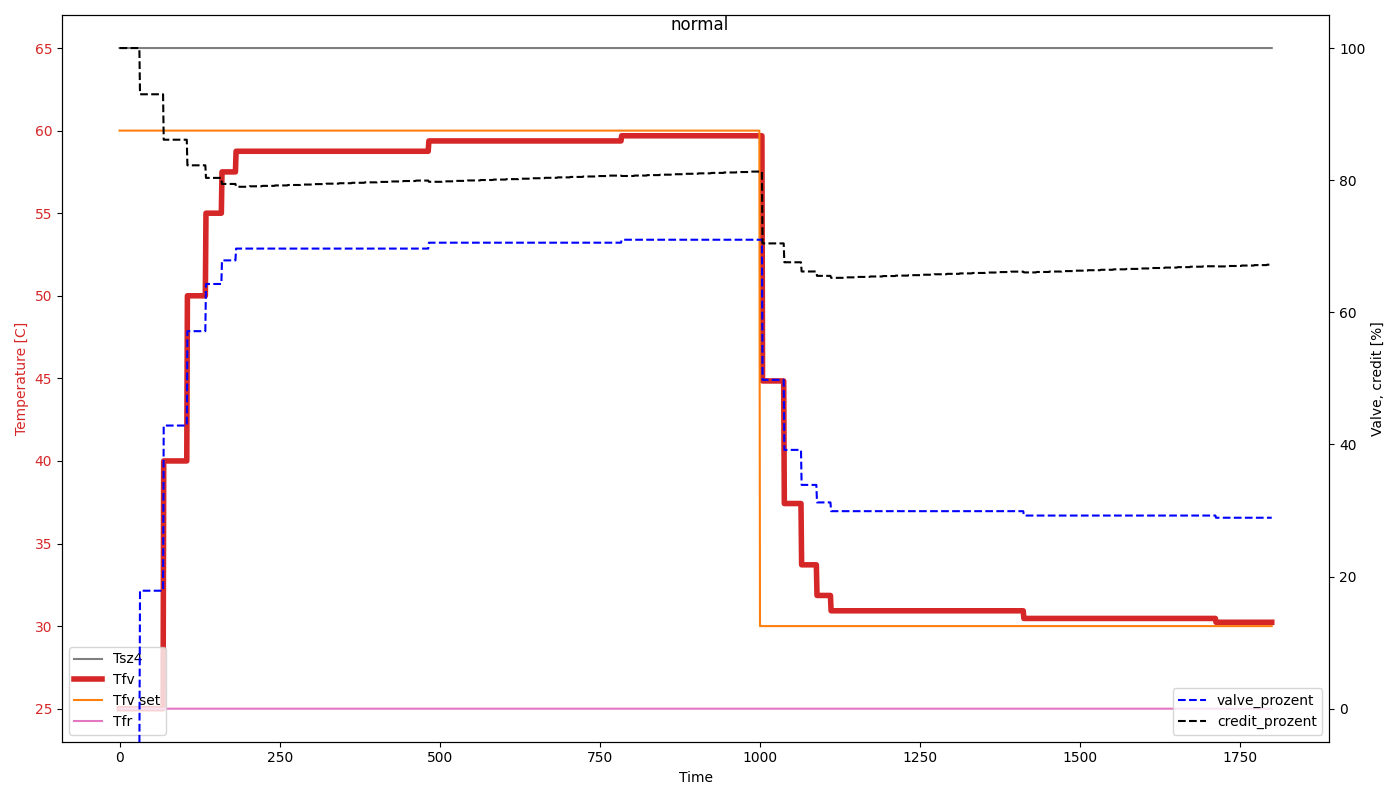
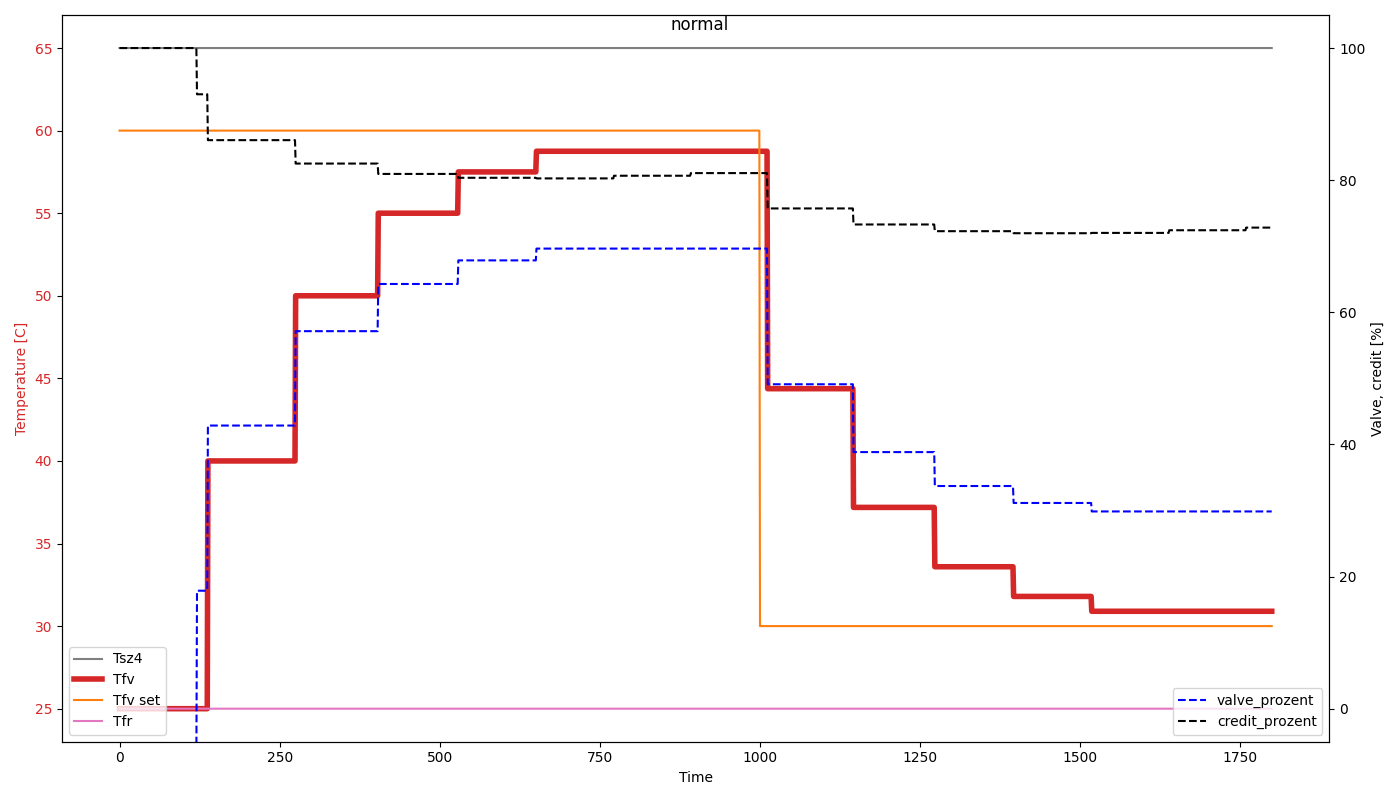
Rework ladung_prozent()

diff --git a/software/software-zentral/zentral/util_sp_ladung_zentral.py b/software/software-zentral/zentral/util_sp_ladung_zentral.py
@@ -1,3 +1,5 @@
+from __future__ import annotations
+
 import dataclasses
 import enum
 
@@ -10,8 +12,40 @@ class SpLadung(enum.IntEnum):
     LEVEL4 = 4
 
     @property
-    def level_prozent(self) -> int:
-        return self.value * 25
+    def lower_level_prozent(self) -> int:
+        return {
+            SpLadung.LEVEL0: -50,
+            SpLadung.LEVEL1: 10,
+            SpLadung.LEVEL2: 40,
+            SpLadung.LEVEL3: 70,
+            SpLadung.LEVEL4: 100,
+        }[self]
+
+    @property
+    def upper_level_prozent(self) -> int:
+        return {
+            SpLadung.LEVEL0: SpLadung.LEVEL1.lower_level_prozent,
+            SpLadung.LEVEL1: SpLadung.LEVEL2.lower_level_prozent,
+            SpLadung.LEVEL2: SpLadung.LEVEL3.lower_level_prozent,
+            SpLadung.LEVEL3: SpLadung.LEVEL4.lower_level_prozent,
+            SpLadung.LEVEL4: 160,
+        }[self]
+
+    @property
+    def band_width_prozent(self) -> int:
+        return self.upper_level_prozent - self.lower_level_prozent
+
+    def get_C(self, sp_temperatur: SpTemperaturZentral) -> tuple[float, float]:
+        """
+        lower and upper temperature
+        """
+        return {
+            SpLadung.LEVEL0: (sp_temperatur.Tsz4_C, 90.0),
+            SpLadung.LEVEL1: (sp_temperatur.Tsz3_C, sp_temperatur.Tsz4_C),
+            SpLadung.LEVEL2: (sp_temperatur.Tsz2_C, sp_temperatur.Tsz3_C),
+            SpLadung.LEVEL3: (sp_temperatur.Tsz1_C, sp_temperatur.Tsz2_C),
+            SpLadung.LEVEL4: (0.0, sp_temperatur.Tsz1_C),
+        }[self]
 
 
 @dataclasses.dataclass
@@ -80,11 +114,15 @@ class LadungZentral:
 
     @property
     def ladung_prozent(self) -> float:
-        """
-        TODO: OBSOLETE
-        """
-        energie_100_J = (self.SPEICHER_100_PROZENT_C - self.MIN_NUETZLICHE_TEMPERATUR_C) * self.SP_WASSER_KG * self.KAPAZITAET_WASSER_J_kg_K
-        return self.sp_temperatur.energie_J / energie_100_J * 100.0
+        for sp_ladung in reversed(SpLadung):
+            lower_C, upper_C = sp_ladung.get_C(self.sp_temperatur)
+            below_upper_C = upper_C - self.MIN_NUETZLICHE_TEMPERATUR_C
+            if below_upper_C > 0.0:
+                diff2_C = max(0.1, upper_C - lower_C)
+                anteil_below_upper = below_upper_C / diff2_C
+                return anteil_below_upper * sp_ladung.band_width_prozent + sp_ladung.lower_level_prozent
+
+        raise ValueError
 
     @property
     def ladung(self) -> SpLadung:

diff --git a/software/software-zentral/zentral/util_sp_ladung_dezentral_test.py b/software/software-zentral/zentral/util_sp_ladung_dezentral_test.py
@@ -1,4 +1,7 @@
+import pytest
+
 from zentral.util_sp_ladung_dezentral import LadungBaden, LadungBodenheizung, SpTemperatur
+from zentral.util_sp_ladung_zentral import LadungZentral, SpTemperaturZentral
 
 
 def test_sp_ladung_dezentral():
@@ -9,6 +12,25 @@ def test_sp_ladung_dezentral():
     )
     for ladung, expected_ladung_prozent in tests:
         assert abs(ladung.ladung_prozent - expected_ladung_prozent) < 0.1
+
+
+@pytest.mark.parametrize(
+    "Tsz1_C,Tsz2_C,Tsz3_C,Tsz4_C,expected_lower_level_prozent,expected_ladung_prozent",
+    (
+        (10.0, 10.0, 10.0, 10.0, -50, -31.25),
+        (10.0, 10.0, 10.0, 64.9, -50, 9.76),
+        (10.0, 10.0, 10.0, 65.1, 10, 10.05),
+        (10.0, 10.0, 10.0, 70.0, 10, 12.5),
+        (10.0, 10.0, 70.0, 70.0, 40, 42.5),
+        (10.0, 70.0, 70.0, 70.0, 70, 72.5),
+        (50.0, 70.0, 70.0, 70.0, 70, 77.5),
+        (70.0, 70.0, 70.0, 70.0, 100, 104.28),
+    ),
+)
+def test_sp_ladung(Tsz1_C: float, Tsz2_C: float, Tsz3_C: float, Tsz4_C: float, expected_lower_level_prozent: int, expected_ladung_prozent: float):
+    ladung = LadungZentral(SpTemperaturZentral(Tsz1_C=Tsz1_C, Tsz2_C=Tsz2_C, Tsz3_C=Tsz3_C, Tsz4_C=Tsz4_C))
+    assert ladung.ladung.lower_level_prozent == expected_lower_level_prozent
+    assert abs(ladung.ladung_prozent - expected_ladung_prozent) < 0.1, (ladung.ladung_prozent, expected_ladung_prozent)
 
 
 if __name__ == "__main__":

diff --git a/software/software-zentral/zentral/controller_mischventil_test.py b/software/software-zentral/zentral/controller_mischventil_test.py
@@ -135,8 +135,13 @@ async def run_scenario(testparam: Ttestparam, do_show_plot: bool) -> None:
         await ctx.init()
         ctx.modbus_communication.pcbs_dezentral_heizzentrale.set_mock(dict_temperatures_C=testparam.dict_temperatures_C)
 
-        ControllerMischventil._FAKTOR_STABILITAET_1 = testparam.CONTROLLER_FAKTOR_STABILITAET_1
-        ctl = ControllerMischventil(now_s=0.0)
+        class ControllerMischventilTest(ControllerMischventil):
+            _FAKTOR_STABILITAET_1 = testparam.CONTROLLER_FAKTOR_STABILITAET_1
+
+            def get_pumpe_ein(self, ctx: "Context", now_s: float) -> bool:
+                return True
+
+        ctl = ControllerMischventilTest(now_s=0.0)
 
         Tsz4_C = ctx.modbus_communication.pcbs_dezentral_heizzentrale.Tsz4_C
         Tfr_C = ctx.modbus_communication.pcbs_dezentral_heizzentrale.Tfr_C

diff --git a/software/software-zentral/zentral/util_influx.py b/software/software-zentral/zentral/util_influx.py
@@ -249,7 +249,7 @@ class Influx:
         def ladung_zentral():
             pcbs = ctx.modbus_communication.pcbs_dezentral_heizzentrale
             fields["sp_ladung_zentral_prozent"] = pcbs.sp_ladung_zentral_prozent
-            fields["sp_ladung_zentral_level_prozent"] = pcbs.sp_ladung_zentral.level_prozent
+            fields["sp_ladung_zentral_level_prozent"] = pcbs.sp_ladung_zentral.lower_level_prozent
 
         haeuser_ladung_minimum_prozent()
         oekofen_summary()

diff --git a/software/software-zentral/zentral/controller_mischventil_simple.py b/software/software-zentral/zentral/controller_mischventil_simple.py
@@ -69,7 +69,7 @@ class ControllerMischventilSimple(ControllerMischventilNone):
         # Speicher genug warm: Pumpe laufen lassen
         return True
 
-    def get_pumpe_ein(self, ctx: "Context", now_s: float) -> None:
+    def get_pumpe_ein(self, ctx: "Context", now_s: float) -> bool:
         """
         Falls mindestens ein Haus das Ventil offen hat, muss die Zentrale die Pumpe starten.
         return True: mindestens ein Haus hat ein Ventil offen

diff --git a/software/software-zentral/zentral/context.py b/software/software-zentral/zentral/context.py
@@ -53,6 +53,10 @@ class Context:
         port = get_serial_port2(n=Waveshare_4RS232.MBUS_WAERMEZAEHLER)
         return MBus(port=port)
 
+    @property
+    def is_mock(self) -> bool:
+        return False
+
     def close_and_flush_influx(self) -> None:
         self.influx.close_and_flush()
         for haus in self.config_etappe.haeuser:

diff --git a/software/software-zentral/zentral/util_modulation_soll_test.py b/software/software-zentral/zentral/util_modulation_soll_test.py
@@ -36,7 +36,7 @@ class Tick:
 
     @property
     def short(self) -> str:
-        s = f" {self.sp_ladung.level_prozent:5.1f}%"
+        s = f" {self.sp_ladung.lower_level_prozent:5.1f}%"
         if self.comment is not None:
             s += f" {self.comment}"
         return s

diff --git a/software/software-zentral/zentral/context_mock.py b/software/software-zentral/zentral/context_mock.py
@@ -162,3 +162,7 @@ class ContextMock(Context):
 
     def _factory_mbus_communication(self) -> MBus:
         return None
+
+    @property
+    def is_mock(self) -> bool:
+        return True
